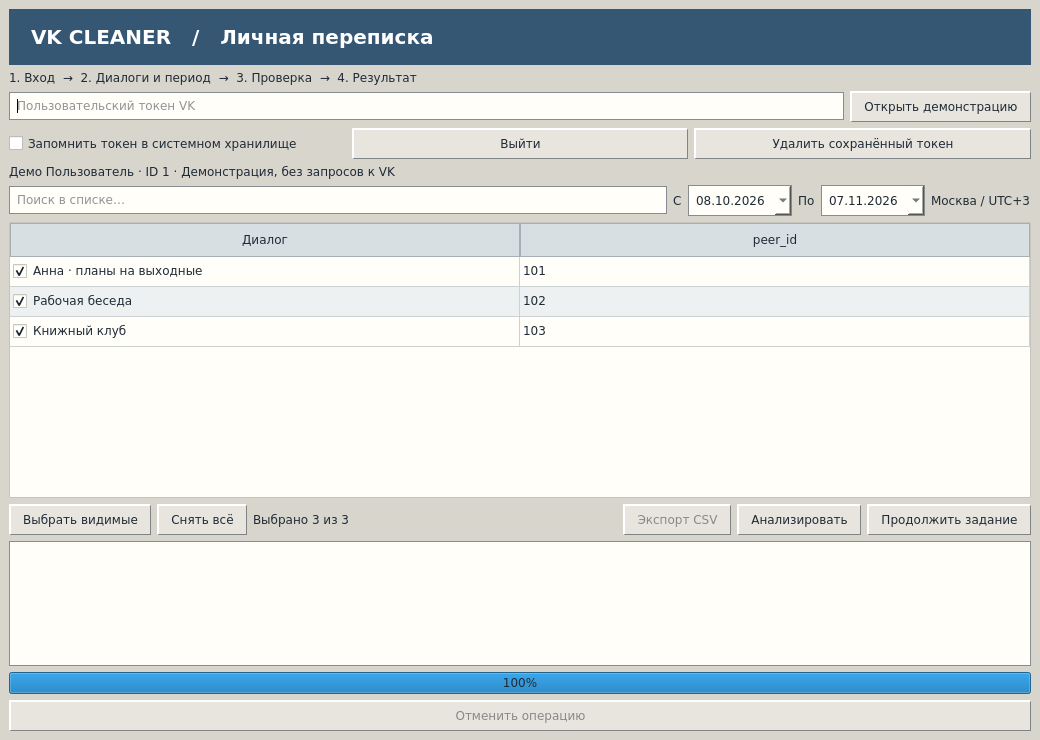
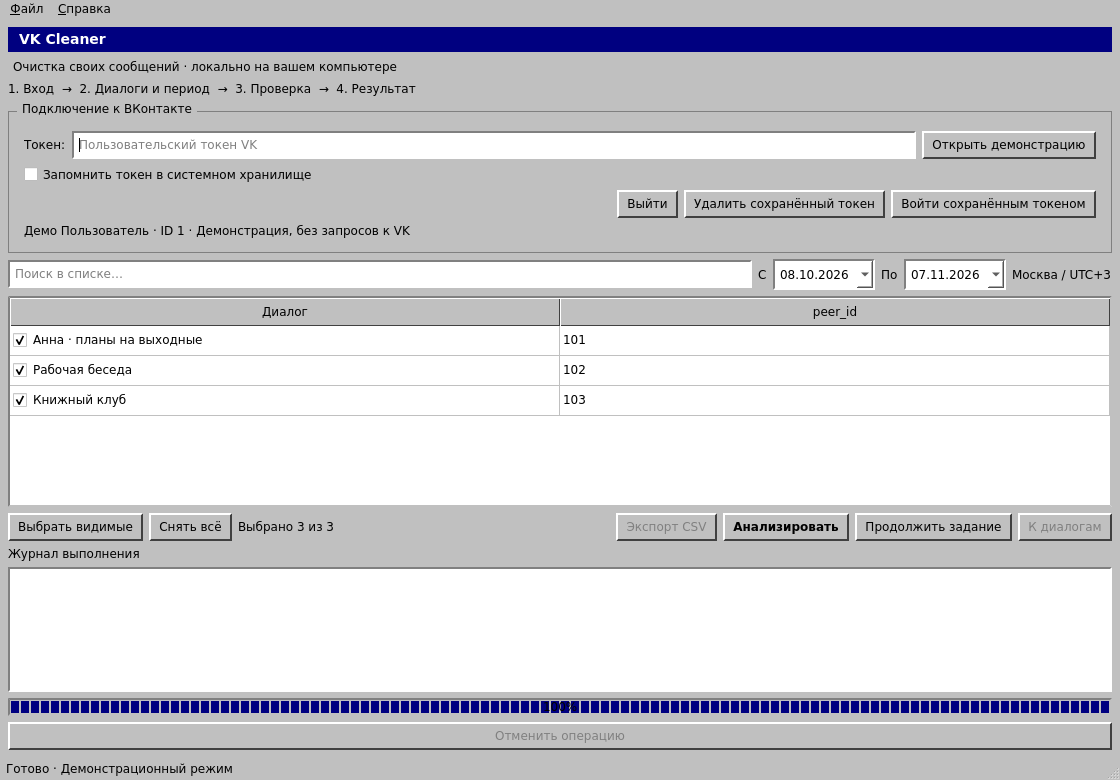
feat: приблизил оформление к классическим программам Windows

diff --git a/src/vk_cleaner/gui/app.py b/src/vk_cleaner/gui/app.py
@@ -106,6 +106,13 @@ class Window(QMainWindow):
         self.setWindowTitle('VK Cleaner — мастер очистки' + (' [ДЕМОНСТРАЦИЯ]' if demo else ''))
         self.resize(1120, 780)
         self.setMinimumSize(980, 700)
+        file_menu = self.menuBar().addMenu('&Файл')
+        file_menu.addAction('Выйти из аккаунта', self.logout)
+        file_menu.addSeparator()
+        file_menu.addAction('Закрыть', self.close)
+        help_menu = self.menuBar().addMenu('&Справка')
+        help_menu.addAction('О программе', lambda: QMessageBox.information(self, 'VK Cleaner', 'VK Cleaner\nЛокальная очистка своих сообщений ВКонтакте.\nРанняя версия · GNU GPL v3'))
+        self.statusBar().showMessage('Готово' + (' · Демонстрационный режим' if demo else ''))
         self.demo = demo
         self.temp = tempfile.TemporaryDirectory() if demo else None
         self.path = Path(self.temp.name if demo else user_data_path('vk-cleaner')) / 'cleaner.sqlite3'
@@ -119,8 +126,8 @@ class Window(QMainWindow):
         layout = QVBoxLayout(panel)
         mast = QLabel('VK Cleaner')
         mast.setObjectName('mast')
-        layout.setContentsMargins(18, 14, 18, 14)
-        layout.setSpacing(10)
+        layout.setContentsMargins(8, 8, 8, 8)
+        layout.setSpacing(6)
         layout.addWidget(mast)
         subtitle = QLabel('Очистка своих сообщений · локально на вашем компьютере')
         subtitle.setObjectName('subtitle')
@@ -511,26 +518,26 @@ def main():
 def apply_theme(app):
     app.setStyle('Fusion')
     app.setStyleSheet("""
-    QWidget { font-family: "DejaVu Sans"; font-size: 12px; color: #243446; }
-    QMainWindow { background: #e7e8e4; }
-    QLabel#mast { color: #294b69; font-size: 24px; font-weight: bold; }
-    QLabel#subtitle { color: #526476; padding-bottom: 4px; }
-    QGroupBox { background: #eff0ec; border: 1px solid #a7b2b8; margin-top: 10px; padding: 12px 10px 8px; }
-    QGroupBox::title { subcontrol-origin: margin; left: 12px; padding: 0 5px; color: #355774; }
-    QPushButton { background: #e9ecec; border: 1px solid #8d9ca5; border-top: 1px solid white; border-left: 1px solid white; padding: 7px 10px; min-height: 16px; }
-    QPushButton:hover { background: #f4f7f8; border-color: #587b96; }
-    QPushButton:pressed { background: #ccd7dd; border: 1px solid #587b96; }
-    QPushButton:focus { outline: 1px dotted #294b69; }
-    QPushButton#primary { background: #355e7c; color: white; border: 1px solid #26465f; font-weight: bold; }
-    QPushButton#primary:hover { background: #426f90; }
-    QPushButton:disabled, QPushButton#primary:disabled { background: #e2e5e3; color: #818a8c; border-color: #bac1c2; }
-    QLineEdit, QDateEdit { background: #fff; border: 1px solid #97a8b2; padding: 5px; min-height: 18px; }
-    QLineEdit:focus, QDateEdit:focus { border: 1px solid #355e7c; }
-    QPlainTextEdit { background: #f5f7f3; border: 1px solid #a3b0b6; font-family: "DejaVu Sans Mono"; font-size: 11px; }
-    QTableView { background: #fff; alternate-background-color: #f0f4f6; gridline-color: #d6dfe3; border: 1px solid #97a8b2; selection-background-color: #355e7c; selection-color: white; }
-    QHeaderView::section { background: #dce4e9; border: 0; border-right: 1px solid #bccbd3; border-bottom: 1px solid #a6bac6; padding: 8px; color: #294b69; }
-    QProgressBar { background: #f5f7f3; border: 1px solid #a3b0b6; height: 16px; text-align: center; }
-    QProgressBar::chunk { background: #89a3b5; }
+    QWidget { font-family: "DejaVu Sans"; font-size: 12px; color: #000; }
+    QMainWindow, QMenuBar, QStatusBar { background: #c0c0c0; }
+    QLabel#mast { background: #000080; color: white; font-size: 14px; font-weight: bold; padding: 4px 7px; }
+    QLabel#subtitle { color: #000; padding: 2px; }
+    QMenuBar::item:selected, QMenu::item:selected { background: #000080; color: white; }
+    QMenu { background: #c0c0c0; border: 2px outset #efefef; }
+    QGroupBox { background: #c0c0c0; border: 1px solid #808080; margin-top: 9px; padding: 10px 6px 5px; }
+    QGroupBox::title { subcontrol-origin: margin; left: 9px; padding: 0 3px; background: #c0c0c0; }
+    QPushButton { background: #c0c0c0; border-top: 2px solid #fff; border-left: 2px solid #fff; border-right: 2px solid #404040; border-bottom: 2px solid #404040; padding: 4px 8px; min-height: 16px; }
+    QPushButton:pressed { border-top: 2px solid #404040; border-left: 2px solid #404040; border-right: 2px solid #fff; border-bottom: 2px solid #fff; }
+    QPushButton:focus { outline: 1px dotted #000; }
+    QPushButton#primary { font-weight: bold; }
+    QPushButton:disabled { color: #808080; }
+    QLineEdit, QDateEdit, QPlainTextEdit { background: #fff; border-top: 2px solid #808080; border-left: 2px solid #808080; border-right: 2px solid white; border-bottom: 2px solid white; padding: 3px; min-height: 18px; }
+    QPlainTextEdit { font-family: "DejaVu Sans Mono"; font-size: 11px; }
+    QTableView { background: white; alternate-background-color: white; gridline-color: #c0c0c0; border: 2px inset #808080; selection-background-color: #000080; selection-color: white; }
+    QHeaderView::section { background: #c0c0c0; border-top: 1px solid white; border-left: 1px solid white; border-right: 1px solid #404040; border-bottom: 1px solid #404040; padding: 4px; }
+    QProgressBar { background: #c0c0c0; border: 2px inset #808080; height: 14px; text-align: center; }
+    QProgressBar::chunk { background: #000080; width: 8px; margin: 1px; }
+    QStatusBar::item { border: 1px inset #808080; }
     """)
 
 
